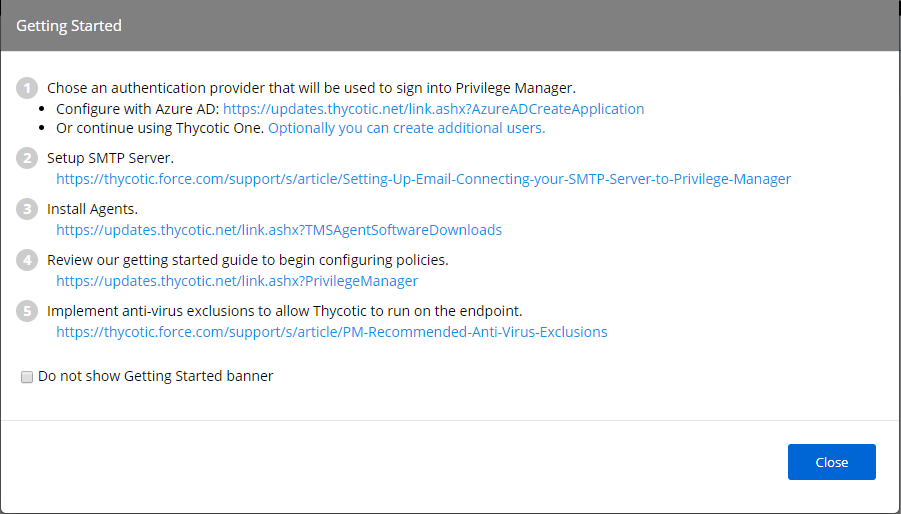
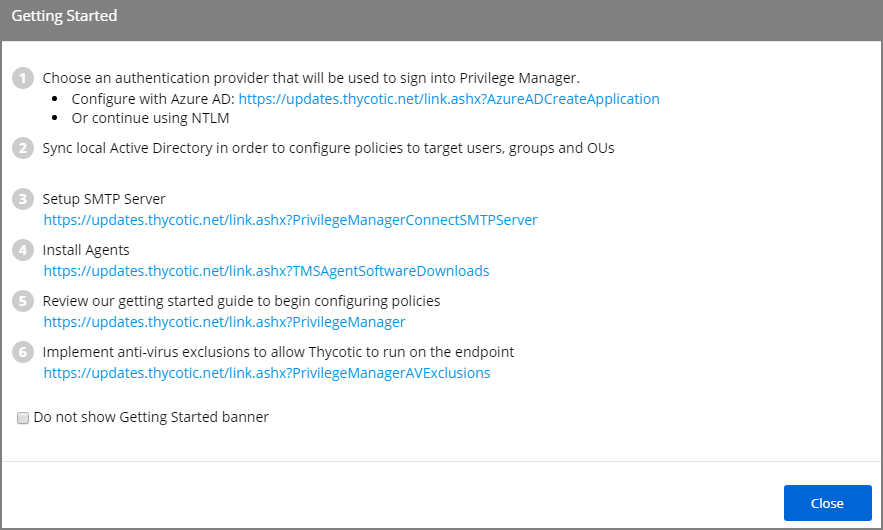
#160051: on-prem installation initial login improvements

diff --git a/getting-started/login.md b/getting-started/login.md
@@ -1,17 +1,22 @@
 [title]: # (Initial Login)
-[tags]: # (Installation,basic,Login)
+[tags]: # (on-prem)
 [priority]: # (502)
 # Initial Login
 
-Using the credentials either,
+Using the credentials configured in the Create User section of the on-premises installation, validate that you can login to Privilege Manager and view the home screen.
 
-* provided for the cloud login or
-* configured in the Create User section of the on-premises installation,
+The login URL for an on-premises Privilege Manager instance has this form:
 
-validate that you can login to Privilege Manager and view the home screen.
+`https://[server-domain]/TMS/PrivilegeManager`
 
 >**Note**:
->You may initially be logged in through Secret Server. If this is the case, you can find Privilege Manager by navigating to __Tools | Privilege Manager__.
+>On combined Secret Server/Privilege Manager installations you are initially logged in through Secret Server. If this is the case, you can find Privilege Manager by navigating to __Tools | Privilege Manager__.
+
+![Login](images/login-on-prem.png "On-premises login page")
+
+Use the Privilege Manager link to login to the product. If you need to add or update product features, such as connectors for foreign systems, use the Add / Update Product Features link.
+
+The __Setup a Secret Server Foreign System__ link can be used to set-up an integration with Secret Server. This will also allow you to use Secret Server as an authentication provider. Also refer to [Setting up Integration between Privilege Manager and Secret Server](../integration/thycotic/set-up-pm-ss-integration.md)
 
 ## Getting Started Banner
 
@@ -25,10 +30,10 @@ At initial login the Getting Started Banner displays with help tips and next ste
 
 You may choose to not show the Getting Started Banner on subsequent logins.
 
-![Home screen](images/getting-started-banner.png)
+![Home screen](images/getting-started-banner.png "Getting Started Banner with references")
 
 ## Home
 
 The Home screen of Privilege Manager can be found by clicking Home in the top banner of any page inside of Privilege Manager. From this dashboard you can jump into either Application Control or Local Security, depending on what you want to do. You also will be given different snapshots of various important information about your environment. Once you have agents installed and policies setup, you’ll have a lot going on from the Home Dashboard:
 
-![Home screen](images/home_20190408.png)
+![Home screen](images/home-new-install.png "Home page new installations")
